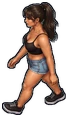
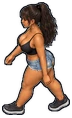
Acht laufende Passanten und neue Lucia

diff --git a/assets/js/spiel/wesen.js b/assets/js/spiel/wesen.js
@@ -149,6 +149,9 @@ export class Figur {
 
   get tempo() { return Math.hypot(this.vx, this.vy); }
 
+  /* Meter je Laufbild — Jason und Lucia sind flott unterwegs */
+  get schrittweite() { return 0.55; }
+
   /* Welche der vier Ansichten passt zur Laufrichtung? */
   get richtung() {
     const s = Math.sin(this.winkel);          // > 0: nach unten, zum Betrachter
@@ -161,7 +164,7 @@ export class Figur {
     const r = this.richtung;
     if (VIER_RICHTUNGEN.has(this.art)) {
       if (this.tempo < 0.35) return `${this.art}_${r}0`;
-      const k = LAUF_POSEN[Math.floor(this.strecke / 0.55) % LAUF_POSEN.length];
+      const k = LAUF_POSEN[Math.floor(this.strecke / this.schrittweite) % LAUF_POSEN.length];
       return `${this.art}_${r}${k}`;
     }
     /* Passanten: drei Bilder, nach rechts wird das linke gespiegelt */
@@ -267,7 +270,16 @@ export class Figur {
    Jason und Lucia (Bogen „richtung" in tools/spiel-bogen.py). Hier nur
    eintragen, wenn die Bilder wirklich in assets/img/spiel liegen —
    sonst lädt das Spiel 17 fehlende Dateien je Name. */
-export const LAUF_LEUTE = [];
+export const LAUF_LEUTE = [
+  "volk_surfer", "volk_skaterin", "volk_lebemann", "volk_oma",
+  "volk_bauarbeiter", "volk_joggerin", "volk_tourist", "volk_trainingsanzug"
+];
+
+/* Wer nicht im Normaltempo schlendert: Oma langsamer, Joggerin flotter */
+const EIGENES_TEMPO = {
+  volk_oma: { name: "", tempo: 1.05, rennen: 3.6, breite: 0.6 },
+  volk_joggerin: { name: "", tempo: 2.5, rennen: 6.2, breite: 0.6 }
+};
 
 /* Alle Passantenarten. Seit dem 22.09.2026 kommen sie aus gezeichneten
    Bögen (tools/spiel-bogen.py) und haben nur ein Standbild — die
@@ -302,8 +314,11 @@ export class Passant extends Figur {
     this.kreuzenZeit = 0;
   }
 
+  /* Passanten schlendern: kürzere Schritte, sonst rutschen die Beine */
+  get schrittweite() { return this.flucht > 0 ? 0.5 : 0.26; }
+
   get daten() {
-    const d = FIGUREN[this.art];
+    const d = FIGUREN[this.art] || EIGENES_TEMPO[this.art];
     return d || { name: "", tempo: 1.5, rennen: 5.2, breite: 0.6 };
   }
 

diff --git a/HANDOVER.md b/HANDOVER.md
@@ -1364,10 +1364,15 @@ spiel/spiel.js      Eingabe, Kamera, Schleife, Anzeige, Punkte
   `strecke`, `aktion`, `zerstoeren` (Zielauto auch beschießbar über `zusatzZiele()`),
   `ausschalten` (Zielperson flieht, wird von `passantenNachziehen` nicht versetzt),
   `typen` bei `fahren` (bestimmte Wagen).
-- **Laufende Passanten vorbereitet:** `LAUF_LEUTE` in `wesen.js` (noch leer) und acht
-  Bögen `volk_*` in `tools/spiel-bogen.py`. Sobald die Bilder da sind: schneiden, WebP,
-  Namen in `LAUF_LEUTE` eintragen — dann laufen sie mit vier Richtungen und Schrittbildern
-  und kommen doppelt so oft vor wie die alten Standbild-Passanten.
+- **Laufende Passanten (25.09.2026):** acht Figuren mit vier Richtungen mal vier Posen
+  (`LAUF_LEUTE` in `wesen.js`, Bögen `volk_*` in `tools/spiel-bogen.py`): Surfer, Skaterin,
+  Lebemann, Oma, Bauarbeiter, Joggerin, Tourist, Trainingsanzug. Sie kommen halb so oft vor
+  wie alle alten Standbild-Passanten zusammen. Passanten machen kürzere Schritte
+  (`schrittweite` 0,26 m je Bild statt 0,55 m), sonst rutschen die Beine; Oma und Joggerin
+  haben ein eigenes Tempo (`EIGENES_TEMPO`). Neue Laufleute: Bogen eintragen, schneiden,
+  `spiel-webp.py`, Namen in `LAUF_LEUTE`.
+- **Lucia neu (25.09.2026):** neuer Bogen `lucia4` nach Wunsch des Nutzers; die vorherigen
+  Bilder liegen in `_backup/lucia_vor_neu/`.
 - Neu erzeugen:
 
 ```bash
